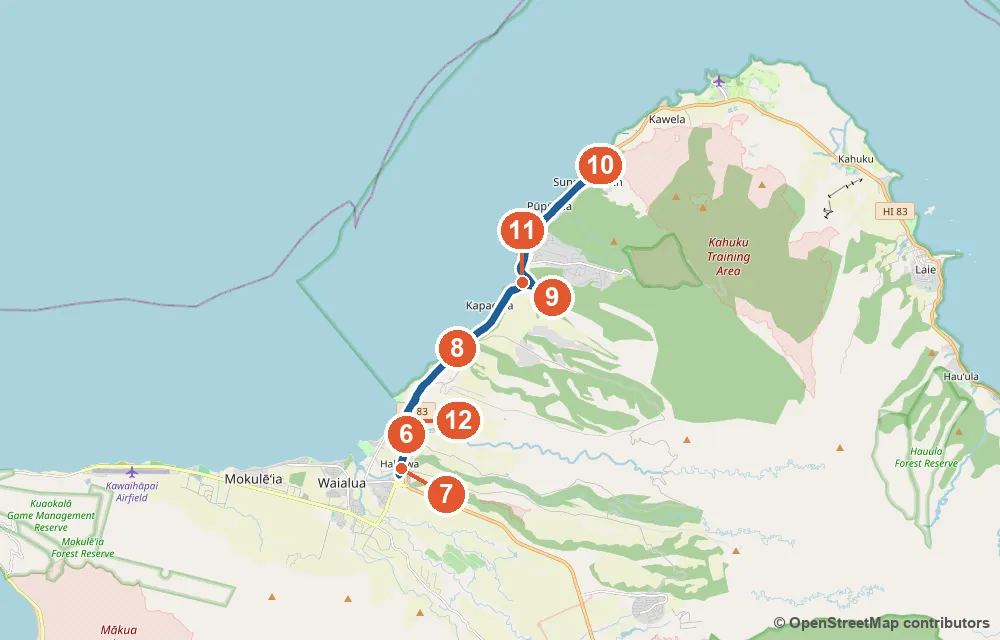
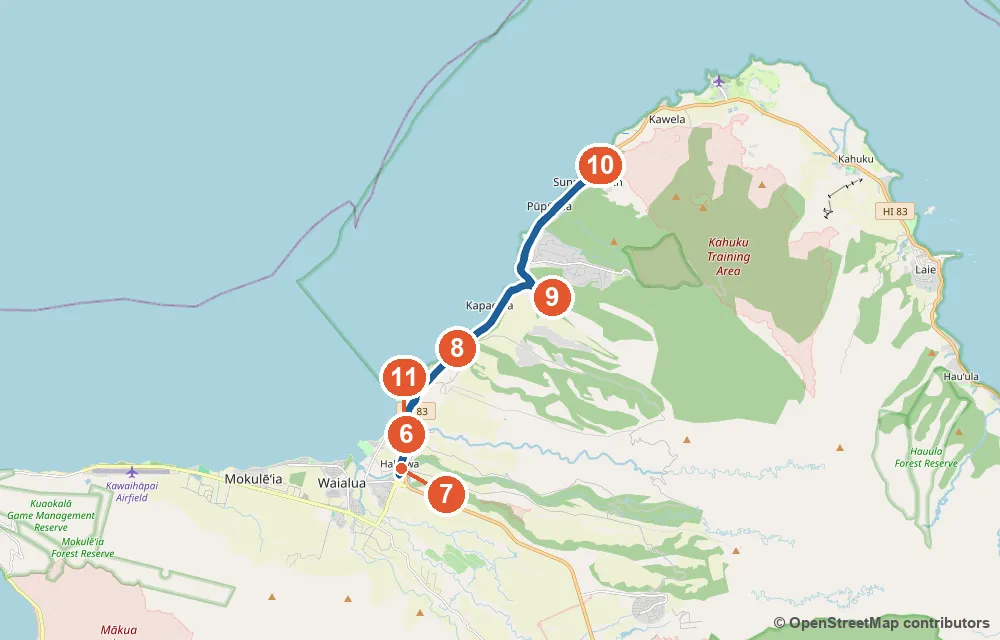
feat: 11/8 drop Waimea Bay sunset, dinner at Haleiwa Joe's from 16:30 with sunset view

Changed region(s): [[0.372, 0.5312, 0.496, 0.6875], [0.496, 0.3125, 0.558, 0.4688]]

diff --git a/index.html b/index.html
@@ -12,7 +12,7 @@
 // GitHub Pages 는 HTML 을 10분 캐시한다(헤더는 못 바꿈) → 열 때마다 version.json 을 캐시 없이 확인해
 // 새 버전이면 주소에 ?v=버전 을 붙여 한 번만 새로 불러온다 (같은 버전으로 이미 시도했으면 멈춤)
 (function () {
-  var BUILD = '8d553b98e7';
+  var BUILD = 'cc53425fba';
   try {
     fetch('version.json?t=' + Date.now(), { cache: 'no-store' })
       .then(function (r) { return r.ok ? r.json() : null; })
@@ -350,7 +350,7 @@ footer { max-width: 1100px; margin: 0 auto; padding: 0 16px 48px; color: var(--m
 </section><section class="sec hotel"><div class="sec-head"><span class="sec-ic">🏨</span><h2 id="숙소-메리어트-3박-비치타워-콘도-4박-걸어서-3분">숙소</h2><small>메리어트 3박 · 비치타워 콘도 4박 (걸어서 3분)</small></div>
 <div class="tickets"><div class="hotel"><div class="tk-top"><span>11/4 (수) – 11/7 (토) · 3박 · 아고다</span></div><div class="ht-name">와이키키 비치 메리어트 리조트 &amp; 스파</div><div class="ht-times"><div><span>체크인</span><b>15:00</b><small>11/4 (수)</small></div><div><span>체크아웃</span><b>11:00</b><small>11/7 (토)</small></div></div><dl class="ht-facts"><dt>☎ 전화</dt><dd><ul class="ht-fac"><li>한국에서 <strong>001-1-808-922-6611</strong> (KT 001 · LG U+ 002 · SK 00700)</li><li>휴대폰은 <strong><a href="tel:+18089226611">+1 808 922 6611</a></strong> (누르면 바로 걸려요)</li><li>프런트 24시간 · 하와이는 한국보다 19시간 늦어요</li></ul></dd><dt>🛏 방</dt><dd><strong>객실 2개 예약 확정</strong> — 방 1: 시티뷰 퀸 1 또는 더블 2 (성인 2) · 방 2: 와이키키 시티뷰 킹 1 + 소파베드, 발코니 (성인 3) — <strong>침대는 킹 1 + 소파베드뿐</strong> (추가 침대·침대 2개 방 변경 안 됨, 11/3 확인)</dd><dt>🚿 욕실</dt><dd>객실마다 1개</dd><dt>🍳 조식</dt><dd><strong>방마다 성인 2명 포함</strong> (전화 확인 11/3) — 2번 방 세 번째 사람은 <strong>추가 요금</strong> · 2층 Kuhio Beach Grill 뷔페 (05:00–11:00)</dd><dt>🅿 주차</dt><dd><strong>호텔 셀프 주차</strong> $65/일 · 발렛 $80/일 (세금 별도 · 셀프 3박 약 $204) — 근처 반얀 주차장은 24시간 $50 (공사 중 요금 · 높이 183cm 제한)이라 하루 $15 정도 차이 · ⚠ 후기: 셀프 주차장이 좁고 자주 꽉 차서 발렛으로 돌린 일, SUV가 높아 못 들어가 발렛 쓴 일 있음 (2024~2026) · <strong>미리 예약 필요 없음</strong> (11/3 호텔 확인)</dd><dt>🏝 시설</dt><dd><ul class="ht-fac"><li>🏊 <strong>수영장 2개</strong> — 옥상 Queensbreak에 가족 풀 + 21세 이상 성인 풀, 온수 욕조 (07:00–22:00)</li><li>🍽 <strong>식당·바·카페 7곳</strong> — Kuhio Beach Grill (조식 뷔페 05–11, 2층) · Arancino di Mare (이탈리안 저녁 17–21) · Queensbreak 레스토랑·풀사이드 바 (옥상 11–23) · 스타벅스 2곳 · Island Vintage 셰이브아이스 — Sansei·DK Steakhouse는 2025.9 폐업</li><li>🛒 <strong>ABC 스토어</strong> (로비층 편의점)</li><li>🧺 <strong>셀프 세탁실</strong> (Paoakalani 타워 2층) — 세탁·건조 각 $6.50 (2026.5 투숙 후기), 카드 결제 · 드라이클리닝 서비스 별도</li><li>💆 Royal Kaila 스파 (09–18) · 피트니스 24시간</li><li>🌺 우쿨렐레·훌라·레이 만들기 수업 (리조트피 포함)</li><li>🎭 Paina Waikiki 루아우 디너쇼 (월·수·금·토·일, 별도 예약)</li><li>🗣 일본어 직원 있음 · 한국어 직원 없음 (11/3 전화 확인)</li></ul></dd></dl><ul class="ht-notes"><li>11/4 체크인 전·11/7 체크아웃 뒤 <strong>벨데스크 짐 보관</strong></li><li>리조트피 객실당 1박 $59 + 세금 (약 $70, 현장 결제 — Wi-Fi·비치체어 또는 부기보드·문화 수업 포함)</li><li>체크인은 예약자 본인 여권 + 실물 카드</li></ul></div><div class="hotel"><div class="tk-top"><span>11/7 (토) – 11/11 (수) · 4박</span></div><div class="ht-name">와이키키 비치 타워 콘도 (에어비앤비)</div><div class="ht-times"><div><span>체크인</span><b>15:00</b><small>11/7 (토)</small></div><div><span>체크아웃</span><b>11:00</b><small>11/11 (수)</small></div></div><dl class="ht-facts"><dt>☎ 전화</dt><dd><ul class="ht-fac"><li>관리 회사(캡틴 쿡 리조트)는 <strong>에어비앤비 앱 메시지</strong></li><li>관리자 전화번호는 11/5 15:00(하와이)부터 앱의 입실 안내에 나와요</li></ul></dd><dt>🛏 방</dt><dd><strong>침실 2개</strong> — 안방 킹 1 · 게스트룸 트윈 2 (요청 시 킹 1) · 거실 퀸 소파베드 · 최대 6명 · 실내 약 107㎡ + 오션뷰 발코니</dd><dt>🚿 욕실</dt><dd><strong>2개</strong> (안방 전용 1 + 공용 1)</dd><dt>🍳 조식</dt><dd>없음 — 주방 완비, 아침은 장봐서</dd><dt>🅿 주차</dt><dd><strong>발렛 1대 무료</strong> (차 높이 188cm까지, 셔틀 크기 밴 불가) · 차량 사전 등록 필요 없음 · 머무는 동안만 · 리조트피 없음</dd><dt>🏝 시설</dt><dd><ul class="ht-fac"><li>🧺 집 안 <strong>세탁기·건조기</strong> (무료)</li><li>🏊 건물 수영장·스파·피트니스</li><li>🍳 주방 완비</li></ul></dd></dl><ul class="ht-notes"><li>체크인·체크아웃 시각은 <strong>에어비앤비 예약·호스트 안내 기준</strong></li><li>도착 후 <strong>관리자에게 전화</strong>해서 체크인</li><li>매일 청소·수건 보충 없음</li><li>커피·조미료·식용유·지퍼백 없음</li></ul></div></div>
 </section><section class="sec overview"><div class="sec-head"><span class="sec-ic">🗓</span><h2 id="1-한눈에-보기">한눈에 보기</h2></div>
-<div class="ov-grid"><a class="ov c0" href="#114-수-도착-짐부터-호텔에-가볍게"><div class="ov-head"><b>11/4</b><em>수</em><span>도착</span></div><ul><li><i>🛍</i>월마트 / 돈키호테 (장보기)</li><li><i>🍳</i>기내</li><li><i>🍱</i>Highway Inn 카카아코</li><li><i>🍽</i>🌅 DECK. 일몰 (17:30)</li></ul></a><a class="ov c1" href="#115-목-진주만-와이켈레-아울렛"><div class="ov-head"><b>11/5</b><em>목</em><span>진주만</span></div><ul><li><i>🛍</i><strong>와이켈레 아울렛</strong></li><li><i>🍳</i>메리어트 조식</li><li><i>🍱</i>Restaurant 604</li><li><i>🍽</i>🍺 Yard House</li></ul></a><a class="ov c2" href="#116-금-동부-해안-카일루아-해안-먼저-저녁은-카일루아"><div class="ov-head"><b>11/6</b><em>금</em><span>동부 해안</span></div><ul><li><i>🥾</i><strong>마카푸우 등대</strong> · (선택, 아들) 라니카이 필박스</li><li><i>🛍</i><strong>카일루아</strong> 마노아 초콜릿·Whole Foods·타운</li><li><i>🍳</i>메리어트 조식</li><li><i>🍱</i>Kalapawai Café</li><li><i>🍽</i><strong>Buzz's</strong> (예약)</li></ul></a><a class="ov c3" href="#117-토-kcc-파머스마켓-다이아몬드헤드-알라모아나-숙소-이동"><div class="ov-head"><b>11/7</b><em>토</em><span>이동일</span></div><ul><li><i>🥾</i><strong>다이아몬드헤드</strong> (예약)</li><li><i>🛍</i><strong>KCC 파머스마켓 · 알라모아나</strong> · 저녁 전 IMP·로열 하와이안 (걸어서)</li><li><i>🍳</i>메리어트 조식</li><li><i>🍱</i>릴리하 베이커리 (알라모아나)</li><li><i>🍽</i>🌺 훌라 쇼 → 🍺 <strong>Maui Brewing</strong></li></ul></a><a class="ov c4" href="#118-일-노스쇼어-종일"><div class="ov-head"><b>11/8</b><em>일</em><span>노스쇼어</span></div><ul><li><i>🥾</i><strong>와이메아 밸리 폭포</strong></li><li><i>🛍</i><strong>할레이바 타운</strong> · 돌 플랜테이션</li><li><i>🍳</i>Duke's 조식 뷔페</li><li><i>🍱</i>Giovanni's</li><li><i>🍽</i>Haleiwa Beach House</li></ul></a><a class="ov c5" href="#119-월-서쪽-해안-93번-드라이브-쇼핑-와이키키-마지막-여유일"><div class="ov-head"><b>11/9</b><em>월</em><span>서쪽 해안·쇼핑</span></div><ul><li><i>🥾</i><strong>93번 서쪽 해안 드라이브</strong> (코올리나 라군·마카하·요코하마 베이)</li><li><i>🛍</i><strong>워드 빌리지 · 돈키호테·월마트</strong></li><li><i>🍳</i>Café Kaila / Hau Tree</li><li><i>🍱</i>Monkeypod Kitchen (코올리나)</li><li><i>🍽</i>🍺 <strong>Waikiki Brewing</strong></li></ul></a><a class="ov c6" href="#1110-화-뵤도인-폴리네시안-문화센터-pcc"><div class="ov-head"><b>11/10</b><em>화</em><span>PCC</span></div><ul><li><i>🥾</i><strong>팔리 전망대 · 뵤도인 사원</strong> (또는 호오말루히아)</li><li><i>🛍</i>후킬라우 마켓플레이스</li><li><i>🍳</i>Heavenly (07:00~)</li><li><i>🍱</i>Seven Brothers / Giovanni's 카후쿠</li><li><i>🍽</i>PCC 루아우</li></ul></a><a class="ov c7" href="#1111-수-출발-veterans-day-공휴일"><div class="ov-head"><b>11/11</b><em>수</em><span>출발</span></div><ul><li><i>🍳</i>Eggs 'n Things 포장 (06:00)</li><li><i>🍱</i>기내</li></ul></a></div>
+<div class="ov-grid"><a class="ov c0" href="#114-수-도착-짐부터-호텔에-가볍게"><div class="ov-head"><b>11/4</b><em>수</em><span>도착</span></div><ul><li><i>🛍</i>월마트 / 돈키호테 (장보기)</li><li><i>🍳</i>기내</li><li><i>🍱</i>Highway Inn 카카아코</li><li><i>🍽</i>🌅 DECK. 일몰 (17:30)</li></ul></a><a class="ov c1" href="#115-목-진주만-와이켈레-아울렛"><div class="ov-head"><b>11/5</b><em>목</em><span>진주만</span></div><ul><li><i>🛍</i><strong>와이켈레 아울렛</strong></li><li><i>🍳</i>메리어트 조식</li><li><i>🍱</i>Restaurant 604</li><li><i>🍽</i>🍺 Yard House</li></ul></a><a class="ov c2" href="#116-금-동부-해안-카일루아-해안-먼저-저녁은-카일루아"><div class="ov-head"><b>11/6</b><em>금</em><span>동부 해안</span></div><ul><li><i>🥾</i><strong>마카푸우 등대</strong> · (선택, 아들) 라니카이 필박스</li><li><i>🛍</i><strong>카일루아</strong> 마노아 초콜릿·Whole Foods·타운</li><li><i>🍳</i>메리어트 조식</li><li><i>🍱</i>Kalapawai Café</li><li><i>🍽</i><strong>Buzz's</strong> (예약)</li></ul></a><a class="ov c3" href="#117-토-kcc-파머스마켓-다이아몬드헤드-알라모아나-숙소-이동"><div class="ov-head"><b>11/7</b><em>토</em><span>이동일</span></div><ul><li><i>🥾</i><strong>다이아몬드헤드</strong> (예약)</li><li><i>🛍</i><strong>KCC 파머스마켓 · 알라모아나</strong> · 저녁 전 IMP·로열 하와이안 (걸어서)</li><li><i>🍳</i>메리어트 조식</li><li><i>🍱</i>릴리하 베이커리 (알라모아나)</li><li><i>🍽</i>🌺 훌라 쇼 → 🍺 <strong>Maui Brewing</strong></li></ul></a><a class="ov c4" href="#118-일-노스쇼어-종일"><div class="ov-head"><b>11/8</b><em>일</em><span>노스쇼어</span></div><ul><li><i>🥾</i><strong>와이메아 밸리 폭포</strong></li><li><i>🛍</i><strong>할레이바 타운</strong> · 돌 플랜테이션</li><li><i>🍳</i>Duke's 조식 뷔페</li><li><i>🍱</i>Giovanni's</li><li><i>🍽</i>Haleiwa Joe's (노을)</li></ul></a><a class="ov c5" href="#119-월-서쪽-해안-93번-드라이브-쇼핑-와이키키-마지막-여유일"><div class="ov-head"><b>11/9</b><em>월</em><span>서쪽 해안·쇼핑</span></div><ul><li><i>🥾</i><strong>93번 서쪽 해안 드라이브</strong> (코올리나 라군·마카하·요코하마 베이)</li><li><i>🛍</i><strong>워드 빌리지 · 돈키호테·월마트</strong></li><li><i>🍳</i>Café Kaila / Hau Tree</li><li><i>🍱</i>Monkeypod Kitchen (코올리나)</li><li><i>🍽</i>🍺 <strong>Waikiki Brewing</strong></li></ul></a><a class="ov c6" href="#1110-화-뵤도인-폴리네시안-문화센터-pcc"><div class="ov-head"><b>11/10</b><em>화</em><span>PCC</span></div><ul><li><i>🥾</i><strong>팔리 전망대 · 뵤도인 사원</strong> (또는 호오말루히아)</li><li><i>🛍</i>후킬라우 마켓플레이스</li><li><i>🍳</i>Heavenly (07:00~)</li><li><i>🍱</i>Seven Brothers / Giovanni's 카후쿠</li><li><i>🍽</i>PCC 루아우</li></ul></a><a class="ov c7" href="#1111-수-출발-veterans-day-공휴일"><div class="ov-head"><b>11/11</b><em>수</em><span>출발</span></div><ul><li><i>🍳</i>Eggs 'n Things 포장 (06:00)</li><li><i>🍱</i>기내</li></ul></a></div>
 
 </section><section class="sec days"><div class="sec-head"><span class="sec-ic">📍</span><h2 id="2-날짜별-상세-시간-장소-주차">날짜별 상세</h2><small>시간 · 장소 · 주차</small></div>
 <blockquote>
@@ -409,16 +409,17 @@ footer { max-width: 1100px; margin: 0 auto; padding: 0 16px 48px; color: var(--m
 </ul>
 </div></article><article class="day c4" data-date="11/8"><div class="day-head"><div class="date-badge"><b>11/8</b><span>일요일</span></div><div class="day-title"><h3 id="118-일-노스쇼어-종일">노스쇼어 종일</h3></div></div><div class="day-body">
 <p class="wx">🌤 할레이바·노스쇼어 ☔ 16% · 🌡 21~28°C · 💨 평균 초속 6m · 돌풍 15m (동북동) — 오전 한때 소나기 뒤 대체로 맑음 · 주말 중대형 파도 → 큰 파도는 마른 모래까지 덮칠 수 있음</p>
-<figure class="routemap"><img src="maps/1108.webp?v=c63b88dec0" loading="lazy" width="1000" height="640" alt="11/8 지도"><figcaption><div class="rm-stops"><b>①</b> 비치타워 콘도 → <b>②</b> Duke's 조식 → <b>③</b> 비치타워 콘도 → <b>④</b> Green World 커피 → <b>⑤</b> 돌 플랜테이션 → <b>⑥</b> 할레이바 타운 → <b>⑦</b> Giovanni's → <b>⑧</b> 라니아케아 → <b>⑨</b> 와이메아 밸리 → <b>⑩</b> Ted's Bakery → <b>⑪</b> 와이메아 베이 → <b>⑫</b> Haleiwa Beach House → <b>⑬</b> 비치타워 콘도</div><div class="rm-meta">🚗 하루 운전 약 142km · 막히지 않으면 약 2시간 57분 · 파란 선 = 차 · 초록 선 = 걷기</div><div class="rm-links">🧭 구글 지도 길찾기 <a href="https://www.google.com/maps/dir/?api=1&amp;origin=Waikiki+Beach+Tower+2470+Kalakaua+Ave+Honolulu&amp;destination=Waikiki+Beach+Tower+2470+Kalakaua+Ave+Honolulu&amp;travelmode=walking&amp;waypoints=Duke%27s+Waikiki+2335+Kalakaua+Ave+Honolulu" target="_blank" rel="noopener">🚶 ①→③</a><a href="https://www.google.com/maps/dir/?api=1&amp;origin=Waikiki+Beach+Tower+2470+Kalakaua+Ave+Honolulu&amp;destination=Giovanni%27s+Shrimp+Truck+66-472+Kamehameha+Hwy+Haleiwa&amp;travelmode=driving&amp;waypoints=Green+World+Coffee+Farm+Wahiawa%7CDole+Plantation%7CHaleiwa+Store+Lots" target="_blank" rel="noopener">③→⑦</a><a href="https://www.google.com/maps/dir/?api=1&amp;origin=Giovanni%27s+Shrimp+Truck+66-472+Kamehameha+Hwy+Haleiwa&amp;destination=Waimea+Bay+Beach+Park&amp;travelmode=driving&amp;waypoints=Laniakea+Beach%7CWaimea+Valley%7CTed%27s+Bakery+Sunset+Beach" target="_blank" rel="noopener">⑦→⑪</a><a href="https://www.google.com/maps/dir/?api=1&amp;origin=Waimea+Bay+Beach+Park&amp;destination=Waikiki+Beach+Tower+2470+Kalakaua+Ave+Honolulu&amp;travelmode=driving&amp;waypoints=Haleiwa+Beach+House+62-540+Kamehameha+Hwy" target="_blank" rel="noopener">⑪→⑬</a></div></figcaption><details class="rm-zoom"><summary>🔍 확대 지도 — 할레이바·노스쇼어 (⑥~⑫)</summary><img src="maps/1108-zoom.webp?v=c63b88dec0" loading="lazy" width="1000" height="640" alt="11/8 할레이바·노스쇼어 확대 지도"></details></figure><div class="gallery"><figure><a href="https://commons.wikimedia.org/wiki/File:Dolejf2103.JPG" target="_blank" rel="noopener"><img src="https://thumb.wikimedia.org/wikipedia/commons/thumb/4/43/Dolejf2103.JPG/960px-Dolejf2103.JPG?utm_source=commons.wikimedia.org&utm_campaign=imageinfo&utm_content=thumbnail" alt="돌 플랜테이션" loading="lazy" decoding="async"></a><figcaption><b>돌 플랜테이션</b><small>© Ramon FVelasquez · CC BY-SA 3.0</small></figcaption></figure><figure><a href="https://commons.wikimedia.org/wiki/File:Haleiwa_bridge.jpg" target="_blank" rel="noopener"><img src="https://thumb.wikimedia.org/wikipedia/commons/thumb/9/92/Haleiwa_bridge.jpg/960px-Haleiwa_bridge.jpg?utm_source=commons.wikimedia.org&utm_campaign=imageinfo&utm_content=thumbnail" alt="할레이바 타운" loading="lazy" decoding="async"></a><figcaption><b>할레이바 타운</b><small>© Eric Guinther · CC BY-SA 3.0</small></figcaption></figure><figure><a href="https://commons.wikimedia.org/wiki/File:Ore_Haleiwa_Hawaii_Oahu_Matsumoto_Shave_Ice_(33673670325).jpg" target="_blank" rel="noopener"><img src="https://thumb.wikimedia.org/wikipedia/commons/thumb/1/16/Ore_Haleiwa_Hawaii_Oahu_Matsumoto_Shave_Ice_%2833673670325%29.jpg/960px-Ore_Haleiwa_Hawaii_Oahu_Matsumoto_Shave_Ice_%2833673670325%29.jpg?utm_source=commons.wikimedia.org&utm_campaign=imageinfo&utm_content=thumbnail" alt="마츠모토 셰이브아이스" loading="lazy" decoding="async"></a><figcaption><b>마츠모토 셰이브아이스</b><small>© Anthony Quintano from Honolulu, HI, Unit · CC BY 2.0</small></figcaption></figure><figure><a href="https://commons.wikimedia.org/wiki/File:Green_sea_turtle_(Chelonia_mydas)_Moorea.jpg" target="_blank" rel="noopener"><img src="https://thumb.wikimedia.org/wikipedia/commons/thumb/a/a3/Green_sea_turtle_%28Chelonia_mydas%29_Moorea.jpg/960px-Green_sea_turtle_%28Chelonia_mydas%29_Moorea.jpg?utm_source=commons.wikimedia.org&utm_campaign=imageinfo&utm_content=thumbnail" alt="바다거북 (호누)" loading="lazy" decoding="async"></a><figcaption><b>바다거북 (호누)</b><small>© Charles J. Sharp · CC BY-SA 4.0</small></figcaption></figure><figure><a href="https://commons.wikimedia.org/wiki/File:WaimeaValleyEntrance.jpg" target="_blank" rel="noopener"><img src="https://upload.wikimedia.org/wikipedia/commons/7/7d/WaimeaValleyEntrance.jpg?utm_source=commons.wikimedia.org&utm_campaign=imageinfo&utm_content=thumbnail_unscaled" alt="와이메아 밸리" loading="lazy" decoding="async"></a><figcaption><b>와이메아 밸리</b><small>© Travis.Thurston · CC BY-SA 3.0</small></figcaption></figure><figure><a href="https://commons.wikimedia.org/wiki/File:Empty_wave_at_Banzai_Pipeline.jpeg" target="_blank" rel="noopener"><img src="https://upload.wikimedia.org/wikipedia/commons/0/03/Empty_wave_at_Banzai_Pipeline.jpeg?utm_source=commons.wikimedia.org&utm_campaign=imageinfo&utm_content=thumbnail_unscaled" alt="선셋비치·파이프라인" loading="lazy" decoding="async"></a><figcaption><b>선셋비치·파이프라인</b><small>© Mat-fa · CC BY-SA 3.0</small></figcaption></figure></div><ol class="tl"><li><div class="t">07:50–08:40</div><div class="c"><div class="place"><strong>Duke's 조식 뷔페</strong> (Outrigger Waikiki 2335 Kalakaua, 07:00–11:00, 성인 $29)</div><div class="what">아침 — 해변 앞 뷔페 · 🍴 달걀·과일·현지 음식 위주 (팬케이크는 다음 날 Café Kaila에서) · <strong>OpenTable 예약</strong>으로 대기 없이 · 12/18까지 선데크 공사</div><div class="park">🅿 <strong>걸어서 8분</strong> (차는 콘도)</div></div></li><li><div class="t">09:00</div><div class="c"><div class="place">출발 (H-1→H-2→99번, 약 45분)</div><div class="what">발렛 출차 미리 요청</div></div></li><li><div class="t">09:45–10:05</div><div class="c"><div class="place">☕ <strong>Green World Coffee Farm</strong> (와히아와 99번 길가, 07:00~)</div><div class="what">커피 농장 카페 — 구글 리뷰 4,971 · 돌 플랜테이션 5분 전</div><div class="park">🅿 무료</div></div></li><li><div class="t">10:10–10:50</div><div class="c"><div class="place"><strong>돌 플랜테이션</strong> (09:30–17:30)</div><div class="what"><strong>짧게</strong> — 현지인은 "지나가며 잠깐 들르는 곳" 평 · Dole Whip · 정원 무료 (기차 $15 · 미로 $10은 선택)</div><div class="park">🅿 무료 (미확인)</div></div></li><li><div class="t">11:05–12:15</div><div class="c"><div class="place">🛍 <strong>할레이바 타운</strong></div><div class="what">Haleiwa Store Lots · North Shore Marketplace (서핑 브랜드, Clark Little 갤러리) · <strong>마츠모토 셰이브아이스</strong> (10–18, 줄이 길면 옆집 <strong>Aoki's</strong> — 현지인 선호) · Island Vintage Coffee 할레이바 (07–17, 아사이볼)</div><div class="park">🅿 고객용 무료</div></div></li><li><div class="t">12:15–13:00</div><div class="c"><div class="place"><strong>Giovanni's 할레이바</strong> (10:30–17:00)</div><div class="what">점심 — 갈릭 쉬림프 스캠피 (🍴 이번 여행 새우는 여기서) · 줄이 길면 <strong>Big Wave Shrimp</strong> (갈릭 쉬림프 독자 투표 1위) 또는 근처 한식 트럭 <strong>Young's Lunch Wagon</strong> (66-521 · 가이드북 '로라 이모네'로 추정)</div><div class="park">🅿 푸드트럭 주차장 <strong>$2–3 현금</strong></div></div></li><li><div class="t">13:15–13:35</div><div class="c"><div class="place">라니아케아</div><div class="what">바다거북 (3m 이상 거리) · <strong>안전하게 건너고 볼 자리 없으면 통과</strong></div><div class="park">🅿 길 건너 비포장 · 도로 이설 공사 중단 상태</div></div></li><li><div class="t">13:45–15:30</div><div class="c"><div class="place">🥾 <strong>와이메아 밸리</strong> (화–일 09–16)</div><div class="what">폭포까지 포장 산책 · 성인 $26 · 62세 이상 $20 · 셔틀 편도 $10</div><div class="park">🅿 <strong>1시간 $2 · 최대 4시간 $5</strong> (입장객 전용, 해변용 주차 시 견인)</div></div></li><li><div class="t">15:45–16:30</div><div class="c"><div class="place"><strong>Ted's Bakery</strong> (초코 하우피아 파이) 또는 푸우 오 마후카 헤이아우 (무료 전망) — <strong>둘 중 하나</strong></div><div class="park">🅿 무료</div></div></li><li><div class="t">16:45–17:55</div><div class="c"><div class="place">🌅 <strong>와이메아 베이</strong> (구글 리뷰 6,704 ★4.8 · 현지 추천) — 주차가 안 되면 <strong>선셋비치</strong></div><div class="what">파도·일몰 — <strong>물가·암반에서 떨어진 높은 곳, 구조요원 지시 우선</strong> · Ted's에서 할레이바 저녁 가는 길 (10분)</div><div class="park">🅿 와이메아 베이 공원 무료 주차장 (작아서 일찍 참) · 선셋비치는 길가 합법 주차 공간만 · <strong>두 곳 모두 꽉 차면 일몰은 건너뛰고 할레이바로</strong> · 당일 공원·주차장 통제 확인</div></div></li><li><div class="t">18:15–19:30</div><div class="c"><div class="place"><strong>Haleiwa Beach House</strong> (62-540 Kamehameha Hwy · 저녁 17:00–20:00, 화 휴무 · ☎ 808-637-3435)</div><div class="what">저녁 — <strong>예약 안 받음, 워크인</strong> · 바다 전망 반야외 · 20:00에 닫으니 늦지 않게 · 🍴 <strong>주문: 타이 프라이드 치킨·생선 요리</strong> (쉬림프 스캠피는 점심 Giovanni's와, 갈비찜은 11/4 DECK.와 겹침)</div><div class="park">🅿 무료 주차장 + 길가 무료 주차</div></div></li><li><div class="t">19:30–20:30</div><div class="c"><div class="place">귀가 (약 60분)</div></div></li></ol>
+<figure class="routemap"><img src="maps/1108.webp?v=20eaca5d1d" loading="lazy" width="1000" height="640" alt="11/8 지도"><figcaption><div class="rm-stops"><b>①</b> 비치타워 콘도 → <b>②</b> Duke's 조식 → <b>③</b> 비치타워 콘도 → <b>④</b> Green World 커피 → <b>⑤</b> 돌 플랜테이션 → <b>⑥</b> 할레이바 타운 → <b>⑦</b> Giovanni's → <b>⑧</b> 라니아케아 → <b>⑨</b> 와이메아 밸리 → <b>⑩</b> Ted's Bakery → <b>⑪</b> Haleiwa Joe's → <b>⑫</b> 비치타워 콘도</div><div class="rm-meta">🚗 하루 운전 약 141km · 막히지 않으면 약 2시간 57분 · 파란 선 = 차 · 초록 선 = 걷기</div><div class="rm-links">🧭 구글 지도 길찾기 <a href="https://www.google.com/maps/dir/?api=1&amp;origin=Waikiki+Beach+Tower+2470+Kalakaua+Ave+Honolulu&amp;destination=Waikiki+Beach+Tower+2470+Kalakaua+Ave+Honolulu&amp;travelmode=walking&amp;waypoints=Duke%27s+Waikiki+2335+Kalakaua+Ave+Honolulu" target="_blank" rel="noopener">🚶 ①→③</a><a href="https://www.google.com/maps/dir/?api=1&amp;origin=Waikiki+Beach+Tower+2470+Kalakaua+Ave+Honolulu&amp;destination=Giovanni%27s+Shrimp+Truck+66-472+Kamehameha+Hwy+Haleiwa&amp;travelmode=driving&amp;waypoints=Green+World+Coffee+Farm+Wahiawa%7CDole+Plantation%7CHaleiwa+Store+Lots" target="_blank" rel="noopener">③→⑦</a><a href="https://www.google.com/maps/dir/?api=1&amp;origin=Giovanni%27s+Shrimp+Truck+66-472+Kamehameha+Hwy+Haleiwa&amp;destination=Haleiwa+Joe%27s+66-011+Kamehameha+Hwy+Haleiwa&amp;travelmode=driving&amp;waypoints=Laniakea+Beach%7CWaimea+Valley%7CTed%27s+Bakery+Sunset+Beach" target="_blank" rel="noopener">⑦→⑪</a><a href="https://www.google.com/maps/dir/?api=1&amp;origin=Haleiwa+Joe%27s+66-011+Kamehameha+Hwy+Haleiwa&amp;destination=Waikiki+Beach+Tower+2470+Kalakaua+Ave+Honolulu&amp;travelmode=driving" target="_blank" rel="noopener">⑪→⑫</a></div></figcaption><details class="rm-zoom"><summary>🔍 확대 지도 — 할레이바·노스쇼어 (⑥~⑪)</summary><img src="maps/1108-zoom.webp?v=20eaca5d1d" loading="lazy" width="1000" height="640" alt="11/8 할레이바·노스쇼어 확대 지도"></details></figure><div class="gallery"><figure><a href="https://commons.wikimedia.org/wiki/File:Dolejf2103.JPG" target="_blank" rel="noopener"><img src="https://thumb.wikimedia.org/wikipedia/commons/thumb/4/43/Dolejf2103.JPG/960px-Dolejf2103.JPG?utm_source=commons.wikimedia.org&utm_campaign=imageinfo&utm_content=thumbnail" alt="돌 플랜테이션" loading="lazy" decoding="async"></a><figcaption><b>돌 플랜테이션</b><small>© Ramon FVelasquez · CC BY-SA 3.0</small></figcaption></figure><figure><a href="https://commons.wikimedia.org/wiki/File:Haleiwa_bridge.jpg" target="_blank" rel="noopener"><img src="https://thumb.wikimedia.org/wikipedia/commons/thumb/9/92/Haleiwa_bridge.jpg/960px-Haleiwa_bridge.jpg?utm_source=commons.wikimedia.org&utm_campaign=imageinfo&utm_content=thumbnail" alt="할레이바 타운" loading="lazy" decoding="async"></a><figcaption><b>할레이바 타운</b><small>© Eric Guinther · CC BY-SA 3.0</small></figcaption></figure><figure><a href="https://commons.wikimedia.org/wiki/File:Ore_Haleiwa_Hawaii_Oahu_Matsumoto_Shave_Ice_(33673670325).jpg" target="_blank" rel="noopener"><img src="https://thumb.wikimedia.org/wikipedia/commons/thumb/1/16/Ore_Haleiwa_Hawaii_Oahu_Matsumoto_Shave_Ice_%2833673670325%29.jpg/960px-Ore_Haleiwa_Hawaii_Oahu_Matsumoto_Shave_Ice_%2833673670325%29.jpg?utm_source=commons.wikimedia.org&utm_campaign=imageinfo&utm_content=thumbnail" alt="마츠모토 셰이브아이스" loading="lazy" decoding="async"></a><figcaption><b>마츠모토 셰이브아이스</b><small>© Anthony Quintano from Honolulu, HI, Unit · CC BY 2.0</small></figcaption></figure><figure><a href="https://commons.wikimedia.org/wiki/File:Green_sea_turtle_(Chelonia_mydas)_Moorea.jpg" target="_blank" rel="noopener"><img src="https://thumb.wikimedia.org/wikipedia/commons/thumb/a/a3/Green_sea_turtle_%28Chelonia_mydas%29_Moorea.jpg/960px-Green_sea_turtle_%28Chelonia_mydas%29_Moorea.jpg?utm_source=commons.wikimedia.org&utm_campaign=imageinfo&utm_content=thumbnail" alt="바다거북 (호누)" loading="lazy" decoding="async"></a><figcaption><b>바다거북 (호누)</b><small>© Charles J. Sharp · CC BY-SA 4.0</small></figcaption></figure><figure><a href="https://commons.wikimedia.org/wiki/File:WaimeaValleyEntrance.jpg" target="_blank" rel="noopener"><img src="https://upload.wikimedia.org/wikipedia/commons/7/7d/WaimeaValleyEntrance.jpg?utm_source=commons.wikimedia.org&utm_campaign=imageinfo&utm_content=thumbnail_unscaled" alt="와이메아 밸리" loading="lazy" decoding="async"></a><figcaption><b>와이메아 밸리</b><small>© Travis.Thurston · CC BY-SA 3.0</small></figcaption></figure><figure><a href="https://commons.wikimedia.org/wiki/File:Empty_wave_at_Banzai_Pipeline.jpeg" target="_blank" rel="noopener"><img src="https://upload.wikimedia.org/wikipedia/commons/0/03/Empty_wave_at_Banzai_Pipeline.jpeg?utm_source=commons.wikimedia.org&utm_campaign=imageinfo&utm_content=thumbnail_unscaled" alt="선셋비치·파이프라인" loading="lazy" decoding="async"></a><figcaption><b>선셋비치·파이프라인</b><small>© Mat-fa · CC BY-SA 3.0</small></figcaption></figure></div><ol class="tl"><li><div class="t">07:50–08:40</div><div class="c"><div class="place"><strong>Duke's 조식 뷔페</strong> (Outrigger Waikiki 2335 Kalakaua, 07:00–11:00, 성인 $29)</div><div class="what">아침 — 해변 앞 뷔페 · 🍴 달걀·과일·현지 음식 위주 (팬케이크는 다음 날 Café Kaila에서) · <strong>OpenTable 예약</strong>으로 대기 없이 · 12/18까지 선데크 공사</div><div class="park">🅿 <strong>걸어서 8분</strong> (차는 콘도)</div></div></li><li><div class="t">09:00</div><div class="c"><div class="place">출발 (H-1→H-2→99번, 약 45분)</div><div class="what">발렛 출차 미리 요청</div></div></li><li><div class="t">09:45–10:05</div><div class="c"><div class="place">☕ <strong>Green World Coffee Farm</strong> (와히아와 99번 길가, 07:00~)</div><div class="what">커피 농장 카페 — 구글 리뷰 4,971 · 돌 플랜테이션 5분 전</div><div class="park">🅿 무료</div></div></li><li><div class="t">10:10–10:50</div><div class="c"><div class="place"><strong>돌 플랜테이션</strong> (09:30–17:30)</div><div class="what"><strong>짧게</strong> — 현지인은 "지나가며 잠깐 들르는 곳" 평 · Dole Whip · 정원 무료 (기차 $15 · 미로 $10은 선택)</div><div class="park">🅿 무료 (미확인)</div></div></li><li><div class="t">11:05–12:15</div><div class="c"><div class="place">🛍 <strong>할레이바 타운</strong></div><div class="what">Haleiwa Store Lots · North Shore Marketplace (서핑 브랜드, Clark Little 갤러리) · <strong>마츠모토 셰이브아이스</strong> (10–18, 줄이 길면 옆집 <strong>Aoki's</strong> — 현지인 선호) · Island Vintage Coffee 할레이바 (07–17, 아사이볼)</div><div class="park">🅿 고객용 무료</div></div></li><li><div class="t">12:15–13:00</div><div class="c"><div class="place"><strong>Giovanni's 할레이바</strong> (10:30–17:00)</div><div class="what">점심 — 갈릭 쉬림프 스캠피 (🍴 이번 여행 새우는 여기서) · 줄이 길면 <strong>Big Wave Shrimp</strong> (갈릭 쉬림프 독자 투표 1위) 또는 근처 한식 트럭 <strong>Young's Lunch Wagon</strong> (66-521 · 가이드북 '로라 이모네'로 추정)</div><div class="park">🅿 푸드트럭 주차장 <strong>$2–3 현금</strong></div></div></li><li><div class="t">13:15–13:35</div><div class="c"><div class="place">라니아케아</div><div class="what">바다거북 (3m 이상 거리) · <strong>안전하게 건너고 볼 자리 없으면 통과</strong></div><div class="park">🅿 길 건너 비포장 · 도로 이설 공사 중단 상태</div></div></li><li><div class="t">13:45–15:30</div><div class="c"><div class="place">🥾 <strong>와이메아 밸리</strong> (화–일 09–16)</div><div class="what">폭포까지 포장 산책 · 성인 $26 · 62세 이상 $20 · 셔틀 편도 $10</div><div class="park">🅿 <strong>1시간 $2 · 최대 4시간 $5</strong> (입장객 전용, 해변용 주차 시 견인)</div></div></li><li><div class="t">15:40–16:00</div><div class="c"><div class="place"><strong>Ted's Bakery</strong> (초코 하우피아 파이 포장) 또는 푸우 오 마후카 헤이아우 (무료 전망) — <strong>둘 중 하나 · 16:00에는 출발</strong></div><div class="park">🅿 무료</div></div></li><li><div class="t">16:00–16:25</div><div class="c"><div class="place">할레이바로 (약 20분 · 일요일 오후엔 더 걸릴 수 있음 → 늦으면 Ted's 건너뛰기)</div></div></li><li><div class="t">16:25–18:00</div><div class="c"><div class="place">🌅 <strong>Haleiwa Joe's</strong> (할레이바 항구 옆 66-011 Kamehameha Hwy · 저녁 16:30~ · ☎ 808-637-8005)</div><div class="what">저녁 — <strong>예약 안 받음, 선착순 → 16:30 저녁 시작 무렵 도착해 바로 이름 올리기</strong> (일요일은 11시부터 열려 있어요 · 저녁 손님이 몰리기 전이 가장 짧고, 평일 16:45에 마지막 자리였다는 후기도 있어 늦지 않게) · 항구·바다 전망 야외석에서 <strong>노을 17:50쯤</strong> · 🍴 <strong>주문: 생선 요리(구운·찐 생선, 통생선 튀김)·스티키 립·블랙&amp;블루 아히</strong> (코코넛 새우·필앤잇 새우는 점심 Giovanni's와 겹침) · 프라임 립($74.95)은 크게 나와서 나눠 먹기</div><div class="park">🅿 무료 주차장 + 길가 무료 주차</div></div></li><li><div class="t">18:00–19:00</div><div class="c"><div class="place">귀가 (약 60분)</div></div></li></ol>
 <figure class="routemap"><img src="maps/hike-waimea.webp?v=31b8907c65" loading="lazy" width="1000" height="640" alt="하이킹: 와이메아 밸리 지도"><figcaption><div class="rm-stops"><b>🥾 와이메아 밸리 코스</b> · <b>①</b> 입구 (방문자센터) → <b>②</b> 와이메아 폭포</div><div class="rm-meta">왕복 약 2.4km 포장 산책로 · 셔틀 편도 $10 · 초록 선 = 걷는 길 (대략)</div><div class="rm-links">🧭 구글 지도 <a href="https://www.google.com/maps/search/?api=1&amp;query=21.635275,-158.052933" target="_blank" rel="noopener">📍 입구</a></div></figcaption></figure>
 
 <ul>
 <li>🚗 <strong>주말 정체:</strong> 날씨 좋은 일요일엔 할레이바 → 와이메아 구간(라니아케아 포함)이 1시간 넘게 막힐 수 있어요 (현지 경고) → 라니아케아가 붐비면 건너뛰고 와이메아 밸리로 바로</li>
 <li>☔ 소나기 오면: 와이메아 밸리 길이 미끄러워짐 → 할레이바 쇼핑을 늘리고 밸리는 갠 뒤에</li>
-<li>부모님 피곤하면: Ted's 이후 바로 귀가 (18:00 와이키키) → 저녁은 <strong>마루가메 우동</strong> (도보 10~12분, 10:00–23:00)</li>
+<li>부모님 피곤하면: Ted's를 건너뛰고 할레이바로 바로 (Joe's 앞 항구에서 쉬기) · 저녁이 일찍 끝나 19:00쯤 와이키키 도착</li>
+<li><strong>와이메아 베이 일몰은 뺐어요 (11/3)</strong> — 노을은 Joe's 식탁에서 · 와이메아 베이는 밸리 바로 건너편이라 보고 싶으면 밸리 나와서 전망만 10분 (주차 어려우면 통과)</li>
 <li>에후카이 필박스는 삭제 — 진흙 급경사 + 일몰 직전 하산이라 뒤 일정이 연쇄 지연</li>
 <li>아침 대안: Eggs 'n Things Eggspress (콘도 옆 도보 1분 · 예약 불가, 일요일 아침 대기 20–60분)</li>
-<li>저녁 대안: <strong>Haleiwa Joe's</strong> (약 400m · 예약 안 받는 선착순 · 일 21시까지 · 생선 요리·스티키 립) — Beach House 대기가 길거나 20시 마감에 늦으면 · 점심 대안: Ted's Bakery 플레이트 런치 · Romy's (카후쿠, 영업시간 출처 상충)</li>
+<li>저녁 대안: <strong>Haleiwa Beach House</strong> (약 400m · 워크인 · 저녁 17–20시 · 화 휴무) — Joe's 대기가 길면 · 쉬림프 스캠피 말고 타이 프라이드 치킨·생선 · 점심 대안: Ted's Bakery 플레이트 런치 · Romy's (카후쿠, 영업시간 출처 상충)</li>
 <li>⚠ <strong>Coffee Gallery 폐업</strong> (2026.1.31) · Fumi's 폐업 표기 (미확인) · <strong>Seven Brothers 일요일 휴무</strong></li>
 <li>돌 플랜테이션은 할레이바 가는 길에 있어 <strong>먼저 들르는 게 동선상 맞음</strong> (가이드북 기본 코스와 같은 순서)</li>
 </ul>
@@ -486,9 +487,9 @@ footer { max-width: 1100px; margin: 0 auto; padding: 0 16px 48px; color: var(--m
 <td data-label="이렇게 주문"><span class="v">저녁 <strong>스테이크</strong></span></td>
 </tr>
 <tr>
-<td data-label="날짜"><span class="v">11/8 ⚠</span></td>
-<td data-label="겹치는 메뉴"><span class="v"><strong>새우</strong> (점심 Giovanni's · 저녁 Haleiwa Beach House 쉬림프 스캠피)</span></td>
-<td data-label="이렇게 주문"><span class="v">저녁 <strong>타이 프라이드 치킨·생선</strong></span></td>
+<td data-label="날짜"><span class="v">11/8</span></td>
+<td data-label="겹치는 메뉴"><span class="v">새우 (점심 Giovanni's · 저녁 Haleiwa Joe's 코코넛 새우)</span></td>
+<td data-label="이렇게 주문"><span class="v">저녁 <strong>생선 요리·스티키 립</strong></span></td>
 </tr>
 <tr>
 <td data-label="날짜"><span class="v">11/9</span></td>
@@ -531,7 +532,7 @@ footer { max-width: 1100px; margin: 0 auto; padding: 0 16px 48px; color: var(--m
 <td data-label="끼니"><span class="v">저녁</span></td>
 <td data-label="식당"><span class="v">🌅 <strong>DECK.</strong> ✅ 예약 17:30</span></td>
 <td data-label="대표 메뉴 · 가격"><span class="v">갈비찜 $36 · 카우아이 갈릭 새우 $34 · 스파이스 치킨 $28</span></td>
-<td data-label="분위기 · 특징"><span class="v">호텔 <strong>3층 루프톱</strong> · 다이아몬드헤드 노을 · 5명이 함께 도착해야 앉아요 · 자리 최대 90분<br>🍴 <strong>갈비찜 · 스파이스 치킨</strong><br>↔ <strong>겹침:</strong> 갈릭 새우 → 11/6 Buzz's · 11/8 점심 Giovanni's / 갈비찜 → 11/8 저녁 Haleiwa Beach House (거기선 다른 메뉴)</span></td>
+<td data-label="분위기 · 특징"><span class="v">호텔 <strong>3층 루프톱</strong> · 다이아몬드헤드 노을 · 5명이 함께 도착해야 앉아요 · 자리 최대 90분<br>🍴 <strong>갈비찜 · 스파이스 치킨</strong><br>↔ <strong>겹침:</strong> 갈릭 새우 → 11/6 Buzz's · 11/8 점심 Giovanni's / 갈비 → 11/8 저녁 Haleiwa Joe's 칼비 (거기선 생선)</span></td>
 </tr>
 </tbody>
 </table></div>
@@ -593,7 +594,7 @@ footer { max-width: 1100px; margin: 0 auto; padding: 0 16px 48px; color: var(--m
 <td data-label="끼니"><span class="v">저녁</span></td>
 <td data-label="식당"><span class="v"><strong>Buzz's Original Steak House</strong> (전화 예약)</span></td>
 <td data-label="대표 메뉴 · 가격"><span class="v">데리야키 스테이크 · 서로인 · 새우 스캠피 $28–40 <em>(추정)</em> · 메인에 샐러드나 수프 포함</span></td>
-<td data-label="분위기 · 특징"><span class="v">카일루아 비치 앞 <strong>오래된 스테이크하우스</strong> · 부모님 모시기 좋은 동네 명소 · 16:30 이후 민소매 불가<br>🍴 <strong>데리야키·서로인 스테이크 · 칼라마리 스테이크</strong><br>↔ <strong>겹침:</strong> 새우 스캠피 → 11/4 DECK. · 11/8 Giovanni's · 11/8 Haleiwa Beach House</span></td>
+<td data-label="분위기 · 특징"><span class="v">카일루아 비치 앞 <strong>오래된 스테이크하우스</strong> · 부모님 모시기 좋은 동네 명소 · 16:30 이후 민소매 불가<br>🍴 <strong>데리야키·서로인 스테이크 · 칼라마리 스테이크</strong><br>↔ <strong>겹침:</strong> 새우 스캠피 → 11/4 DECK. · 11/8 Giovanni's / 스테이크 → 11/8 Haleiwa Joe's (거기선 생선)</span></td>
 </tr>
 </tbody>
 </table></div>
@@ -649,13 +650,13 @@ footer { max-width: 1100px; margin: 0 auto; padding: 0 16px 48px; color: var(--m
 <td data-label="끼니"><span class="v">점심</span></td>
 <td data-label="식당"><span class="v"><strong>Giovanni's 할레이바</strong></span></td>
 <td data-label="대표 메뉴 · 가격"><span class="v">갈릭 쉬림프 스캠피 $18.50 (새우 12마리 + 밥 2스쿱)</span></td>
-<td data-label="분위기 · 특징"><span class="v">낙서 가득한 <strong>푸드트럭</strong> + 야외 테이블 · 손으로 까먹어요 · 현금 권장 · 핫앤스파이시는 아주 매움<br>🍴 <strong>갈릭 쉬림프 스캠피 (이번 여행 새우는 여기서)</strong><br>↔ <strong>겹침:</strong> 새우 → ⚠ 같은 날 저녁 Haleiwa Beach House (거기선 다른 메뉴) · 11/4 DECK. · 11/6 Buzz's</span></td>
+<td data-label="분위기 · 특징"><span class="v">낙서 가득한 <strong>푸드트럭</strong> + 야외 테이블 · 손으로 까먹어요 · 현금 권장 · 핫앤스파이시는 아주 매움<br>🍴 <strong>갈릭 쉬림프 스캠피 (이번 여행 새우는 여기서)</strong><br>↔ <strong>겹침:</strong> 새우 → 같은 날 저녁 Haleiwa Joe's 코코넛 새우 (거기선 생선) · 11/4 DECK. · 11/6 Buzz's</span></td>
 </tr>
 <tr>
 <td data-label="끼니"><span class="v">저녁</span></td>
-<td data-label="식당"><span class="v"><strong>Haleiwa Beach House</strong> (예약 안 받음 · 워크인)</span></td>
-<td data-label="대표 메뉴 · 가격"><span class="v">쉬림프 스캠피 $39 · 타이 프라이드 치킨 $38 · 갈비찜 $39</span></td>
-<td data-label="분위기 · 특징"><span class="v"><strong>바다 전망</strong> 비치하우스 · 노을 보이는 반야외 자리 · 생선·갈비찜·타이 치킨 칭찬이 많아요 · 저녁 17–20시 · 서비스료 3%<br>🍴 <strong>타이 프라이드 치킨 · 생선 요리</strong><br>↔ <strong>겹침:</strong> 쉬림프 스캠피 → ⚠ 같은 날 점심 Giovanni's / 갈비찜 → 11/4 DECK.</span></td>
+<td data-label="식당"><span class="v">🌅 <strong>Haleiwa Joe's</strong> (예약 안 받음 · 16:30 저녁 시작 맞춰)</span></td>
+<td data-label="대표 메뉴 · 가격"><span class="v">구운 생선(마카다미아 페스토·랍스터 크림) $36.95 · 통생선 튀김 $39.95 · 스티키 립 하프 $29.95 · 블랙&amp;블루 아히 $21.95 · 프라임 립 $74.95</span></td>
+<td data-label="분위기 · 특징"><span class="v">1998년 문 연 할레이바 <strong>항구 옆</strong> 레스토랑 · 항구·바다 전망 야외석에서 <strong>노을</strong> · 현지인은 큰 프라임 립을 칭찬하지만 <strong>대기가 길다</strong>는 평 → 16:30 무렵 도착 · 무료 주차장<br>🍴 <strong>생선 요리 · 스티키 립 · 블랙&amp;블루 아히</strong><br>↔ <strong>겹침:</strong> 코코넛 새우·필앤잇 새우 → 같은 날 점심 Giovanni's / 칼비 → 11/4 DECK. 갈비찜 / 스테이크 → 11/6 Buzz's</span></td>
 </tr>
 </tbody>
 </table></div>
@@ -764,7 +765,7 @@ footer { max-width: 1100px; margin: 0 auto; padding: 0 16px 48px; color: var(--m
 <tr>
 <td data-label="코스"><span class="v"><strong>83번 노스쇼어</strong></span></td>
 <td data-label="날짜"><span class="v">11/8 일</span></td>
-<td data-label="가는 길 (도로 번호)"><span class="v">와이키키 → H-1 서쪽 → H-2 북쪽 → <strong>99번 Kamehameha Hwy</strong> → 돌 플랜테이션 → 할레이바 → <strong>83번</strong> 해안 → 라니아케아 → 와이메아 밸리 → Ted's (선셋비치) → 와이메아 베이 일몰 → 할레이바 저녁 · 돌아올 때 같은 길</span></td>
+<td data-label="가는 길 (도로 번호)"><span class="v">와이키키 → H-1 서쪽 → H-2 북쪽 → <strong>99번 Kamehameha Hwy</strong> → 돌 플랜테이션 → 할레이바 → <strong>83번</strong> 해안 → 라니아케아 → 와이메아 밸리 → Ted's (선셋비치) → 할레이바 저녁 (Joe's에서 노을) · 돌아올 때 같은 길</span></td>
 <td data-label="볼거리"><span class="v">서핑의 성지 노스쇼어 ✅</span></td>
 </tr>
 <tr>
@@ -821,13 +822,13 @@ footer { max-width: 1100px; margin: 0 auto; padding: 0 16px 48px; color: var(--m
 <li><strong>헤븐리 아일랜드 라이프스타일 (Heavenly Island Lifestyle)</strong> · 와이키키 · 3,698 · ★4.4 — ✅ 11/10 아침 📖</li>
 <li><strong>헬레나스 하와이안 푸드 (Helena's Hawaiian Food)</strong> · 다운타운·차이나타운 · 3,683 · ★4.5 —  📖</li>
 <li><strong>오아후 멕시칸 그릴 (Oahu Mexican Grill)</strong> · 와이키키 · 3,422 · ★3.9 —  📖</li>
-<li><strong>할레이바 조스 (Haleiwa Joe's)</strong> · 노스쇼어·라이에 · 3,407 · ★4.5 — ↪ 11/8 저녁 대안</li>
+<li><strong>할레이바 조스 (Haleiwa Joe's)</strong> · 노스쇼어·라이에 · 3,407 · ★4.5 — ✅ 11/8 저녁 (16:30 저녁 시작 + 노을)</li>
 <li><strong>모쿠 키친 (Moku Kitchen)</strong> · 카카아코·워드 · 3,400 · ★4.4 —  📖</li>
 <li><strong>스윗 이즈 카페 (Sweet E's Cafe)</strong> · 다이아몬드헤드·카파훌루·카이무키 · 3,387 · ★4.7 —  📖</li>
 <li><strong>루스 크리스 (Ruth's Chris Steak House Waikiki)</strong> · 와이키키 · 3,180 · ★4.5 —  📖</li>
 <li><strong>토미 바하마 (Tommy Bahama Restaurant Waikiki)</strong> · 와이키키 · 3,090 · ★4.6 — ↪ 11/5 저녁 대안 📖</li>
 <li><strong>스카이 와이키키 (SKY Waikiki)</strong> · 와이키키 · 2,950 · ★4 —  📖</li>
-<li><strong>할레이바 비치 하우스 (Haleiwa Beach House)</strong> · 노스쇼어·라이에 · 2,919 · ★4.5 — ✅ 11/8 저녁</li>
+<li><strong>할레이바 비치 하우스 (Haleiwa Beach House)</strong> · 노스쇼어·라이에 · 2,919 · ★4.5 — ↪ 11/8 저녁 대안</li>
 <li><strong>버즈 스테이크하우스 (Buzz's Original Steak House)</strong> · 동부 해안·카일루아 · 2,831 · ★4.3 — ✅ 11/6 저녁</li>
 <li><strong>오노 시푸드 (Ono Seafood)</strong> · 다이아몬드헤드·카파훌루·카이무키 · 2,807 · ★4.6 —  📖</li>
 <li><strong>하이웨이 인 카카아코 (Highway Inn Kakaako)</strong> · 카카아코·워드 · 2,793 · ★4.5 — ✅ 11/4 점심</li>
@@ -854,7 +855,7 @@ footer { max-width: 1100px; margin: 0 auto; padding: 0 16px 48px; color: var(--m
 <li><strong>호오말루히아 식물원 (Hoomaluhia Botanical Garden)</strong> · 동부 해안·카일루아 · 7,550 · ★4.7 — ↪ 11/6·11/10 대안 📖</li>
 <li><strong>알라모아나 비치 파크 (Ala Moana Beach Park)</strong> · 알라모아나·마노아 · 7,233 · ★4.6</li>
 <li><strong>하나우마 베이 (Hanauma Bay Nature Preserve)</strong> · 동부 해안·카일루아 · 7,153 · ★4.6 —  📖</li>
-<li><strong>와이메아 베이 (Waimea Bay Beach Park)</strong> · 노스쇼어·라이에 · 6,704 · ★4.8 — ✅ 11/8 일몰 📖</li>
+<li><strong>와이메아 베이 (Waimea Bay Beach Park)</strong> · 노스쇼어·라이에 · 6,704 · ★4.8 — 11/8 선택 (밸리 건너편 · 일몰 일정은 뺌) 📖</li>
 <li><strong>진주만 항공 박물관 (Pearl Harbor Aviation Museum)</strong> · 진주만 · 6,689 · ★4.6 — ↪ 11/5 선택 대안</li>
 <li><strong>이올라니 궁전 (Iolani Palace)</strong> · 다운타운·차이나타운 · 6,097 · ★4.6 —  📖</li>
 <li><strong>시 라이프 파크 (Sea Life Park Hawaii)</strong> · 동부 해안·카일루아 · 5,732 · ★4.1 —  📖</li>
@@ -871,7 +872,7 @@ footer { max-width: 1100px; margin: 0 auto; padding: 0 16px 48px; color: var(--m
 <li><strong>라니카이 필박스 (Lanikai Pillbox Hike)</strong> · 동부 해안·카일루아 · 3,593 · ★4.8 — ✅ 11/6 선택</li>
 </ol>
 <ul>
-<li>순위 밖 일정 장소: 라나이 전망대 (Lanai Lookout) 3,581 (11/6 오전) · 선셋 비치 파크 (Sunset Beach Park) 2,465 (11/8 일몰 대안) · 마카하 비치 파크 (Makaha Beach Park) 2,282 (11/9 오전) · 라니카이 비치 (Lanikai Beach) 2,205 (11/6 오후) · 라니아케아 비치 (Laniakea Beach) 1,175 (11/8 오후) · 코올리나 라군 (Ko Olina Lagoons) 1,146 (11/9 오전) · 라이언 수목원 (Lyon Arboretum) 879 (11/9 대안) · 케아와울라 비치(요코하마 베이) (Keawaula Beach (Yokohama Bay)) 669 (11/9 오전) · 푸우 오 마후카 헤이아우 (Puu o Mahuka Heiau) 278 (11/8 선택)</li>
+<li>순위 밖 일정 장소: 라나이 전망대 (Lanai Lookout) 3,581 (11/6 오전) · 선셋 비치 파크 (Sunset Beach Park) 2,465 (11/8 Ted's 옆, 선택) · 마카하 비치 파크 (Makaha Beach Park) 2,282 (11/9 오전) · 라니카이 비치 (Lanikai Beach) 2,205 (11/6 오후) · 라니아케아 비치 (Laniakea Beach) 1,175 (11/8 오후) · 코올리나 라군 (Ko Olina Lagoons) 1,146 (11/9 오전) · 라이언 수목원 (Lyon Arboretum) 879 (11/9 대안) · 케아와울라 비치(요코하마 베이) (Keawaula Beach (Yokohama Bay)) 669 (11/9 오전) · 푸우 오 마후카 헤이아우 (Puu o Mahuka Heiau) 278 (11/8 선택)</li>
 </ul>
 <h3 id="쇼핑-상위-25">🛍 쇼핑 (상위 25)</h3>
 <ol>
@@ -916,7 +917,7 @@ footer { max-width: 1100px; margin: 0 auto; padding: 0 16px 48px; color: var(--m
 - ★4.8 이상 대안은 '리뷰 쓰면 서비스' 여부를 검증해서 의심(⚠)이면 빼요 — 옐프 평점 차이 · 개업 시기 · 현지 글<br />
 - 그 대안이 현지 평가에서 "관광객용"이거나 호불호가 갈리고, 지금 장소에 <strong>지역 수상(Hale ʻAina 등)이나 현지인 추천</strong>이 있으면 그대로 둬요.<br />
 - <strong>마지막 만찬처럼 분위기가 목적인 끼니는 예외</strong>로 해요.</p>
-<p><strong>11/3 추가 변경:</strong> 비싼 저녁 3끼를 <strong>맥주집</strong>으로 바꿨어요 — 11/5 Yard House · 11/7 Maui Brewing 와이키키 · 11/9 Waikiki Brewing (모두 숙소에서 걸어가거나 택시 5분이라 운전자도 같이 마셔요)<br />
+<p><strong>11/3 추가 변경:</strong> 비싼 저녁 3끼를 <strong>맥주집</strong>으로 바꿨어요 — 11/5 Yard House · 11/7 Maui Brewing 와이키키 · 11/9 Waikiki Brewing (모두 숙소에서 걸어가거나 택시 5분이라 운전자도 같이 마셔요) · <strong>11/8 저녁 Haleiwa Joe's</strong> (16:30 저녁 시작 + 노을, 와이메아 베이 일몰 대신)<br />
 <strong>결과:</strong> 식사 <strong>4끼를 바꿨어요</strong> — 11/4 저녁 DECK. · 11/5 저녁 Tommy Bahama · 11/8 아침 Duke's 조식 뷔페 · 11/10 아침 Heavenly. 기준에 걸린 나머지 3끼(11/4 점심 · 11/7 점심 · 11/9 아침)는 비교해 보고 그대로 뒀어요. 커피 4곳은 앞서 바꿨고, 트로피컬 팜스는 선택 정차로 더했어요.<br />
 숫자는 11/3에 <strong>구글 지도 API로 직접 받은 값</strong>이에요(리뷰 수 · ★평점). "리뷰 수 1위"는 사람이 가장 많이 갔다는 뜻이고 맛 순위는 아니에요.</p>
 </blockquote>
@@ -1024,7 +1025,7 @@ footer { max-width: 1100px; margin: 0 auto; padding: 0 16px 48px; color: var(--m
 <td data-label="날짜 · 끼니"><span class="v">11/8 저녁</span></td>
 <td data-label="지금 장소 (리뷰 · ★ · 현지)"><span class="v">Haleiwa Beach House (2,919 · 4.5 · 👍)</span></td>
 <td data-label="같은 동선 대안"><span class="v">Haleiwa Joe's (3,407 · 4.5 · 🤔 "대기 길고 메뉴 편차")</span></td>
-<td data-label="판단"><span class="v"><strong>유지</strong> (11/3 Joe's로 바꿨다가 되돌림 — 새우는 주문으로 피하기)</span></td>
+<td data-label="판단"><span class="v"><strong>변경 → Haleiwa Joe's</strong> (11/3 결정) — 16:30 저녁 시작에 맞춰 가서 식탁에서 노을, 와이메아 베이 일몰은 뺌 · 점심 새우와도 덜 겹침</span></td>
 </tr>
 <tr>
 <td data-label="날짜 · 끼니"><span class="v">11/9 아침</span></td>
@@ -1245,17 +1246,17 @@ footer { max-width: 1100px; margin: 0 auto; padding: 0 16px 48px; color: var(--m
 </tr>
 <tr>
 <td data-label="날짜 · 끼니"><span class="v">11/8 저녁</span></td>
-<td data-label="식당"><span class="v">Haleiwa Beach House</span></td>
-<td data-label="대표 메뉴 · 가격"><span class="v">쉬림프 스캠피 $39 · 타이 프라이드 치킨 $38 · 갈비찜 $39 (점심 갈릭 쉬림프 $27)</span></td>
-<td data-label="1인 예상"><span class="v">저녁 $45–65</span></td>
-<td data-label="비고"><span class="v">2025.6 메뉴판 · 서비스료 3% · 저녁 17–20시 · 화 휴무 · 예약 불가</span></td>
-</tr>
-<tr>
-<td data-label="날짜 · 끼니"><span class="v">11/8 대안</span></td>
 <td data-label="식당"><span class="v">Haleiwa Joe's</span></td>
 <td data-label="대표 메뉴 · 가격"><span class="v">구운·찐 생선 각 $36.95 · 통생선 튀김 $39.95 · 코코넛 새우 $33.95 · 스티키 립 하프 $29.95 · 칼비 $29.95 · 프라임 립 $74.95 · 블랙&amp;블루 아히 $21.95</span></td>
 <td data-label="1인 예상"><span class="v">$40–60</span></td>
 <td data-label="비고"><span class="v">2025.6 공식 저녁 메뉴판 · 일 11:00–21:00 (저녁 16:30~) · 예약 불가, 선착순</span></td>
+</tr>
+<tr>
+<td data-label="날짜 · 끼니"><span class="v">11/8 대안</span></td>
+<td data-label="식당"><span class="v">Haleiwa Beach House</span></td>
+<td data-label="대표 메뉴 · 가격"><span class="v">쉬림프 스캠피 $39 · 타이 프라이드 치킨 $38 · 갈비찜 $39 (점심 갈릭 쉬림프 $27)</span></td>
+<td data-label="1인 예상"><span class="v">저녁 $45–65</span></td>
+<td data-label="비고"><span class="v">2025.6 메뉴판 · 서비스료 3% · 저녁 17–20시 · 화 휴무 · 예약 불가</span></td>
 </tr>
 <tr>
 <td data-label="날짜 · 끼니"><span class="v">11/8 대안</span></td>
@@ -1545,14 +1546,14 @@ footer { max-width: 1100px; margin: 0 auto; padding: 0 16px 48px; color: var(--m
 <li><a href="https://www.google.com/maps/search/?api=1&amp;query=Waimea+Valley" target="_blank" rel="noopener">와이메아 밸리</a></li>
 <li><a href="https://www.google.com/maps/search/?api=1&amp;query=Ted%27s+Bakery+Sunset+Beach" target="_blank" rel="noopener">Ted's Bakery — 파이</a></li>
 <li><a href="https://www.google.com/maps/search/?api=1&amp;query=Puu+o+Mahuka+Heiau+State+Historic+Site" target="_blank" rel="noopener">푸우 오 마후카 헤이아우 — Ted's 대신 선택</a></li>
-<li><a href="https://www.google.com/maps/search/?api=1&amp;query=Waimea+Bay+Beach+Park" target="_blank" rel="noopener">와이메아 베이 — 일몰 (1순위)</a></li>
-<li><a href="https://www.google.com/maps/search/?api=1&amp;query=Haleiwa+Beach+House" target="_blank" rel="noopener">Haleiwa Beach House — 저녁 (워크인, 17–20시)</a></li>
-<li><a href="https://www.google.com/maps/search/?api=1&amp;query=Haleiwa+Joe%27s+66-011+Kamehameha+Hwy+Haleiwa" target="_blank" rel="noopener">Haleiwa Joe's — 저녁 대안 (400m, 선착순)</a></li>
+<li><a href="https://www.google.com/maps/search/?api=1&amp;query=Waimea+Bay+Beach+Park" target="_blank" rel="noopener">와이메아 베이 — 선택 (밸리 건너편 · 일몰 일정은 뺌)</a></li>
+<li><a href="https://www.google.com/maps/search/?api=1&amp;query=Haleiwa+Joe%27s+66-011+Kamehameha+Hwy+Haleiwa" target="_blank" rel="noopener">Haleiwa Joe's — 저녁 (16:30 저녁 시작 맞춰 · 노을)</a></li>
+<li><a href="https://www.google.com/maps/search/?api=1&amp;query=Haleiwa+Beach+House" target="_blank" rel="noopener">Haleiwa Beach House — 저녁 대안 (400m, 워크인)</a></li>
 <li><a href="https://www.google.com/maps/search/?api=1&amp;query=Island+Vintage+Coffee+Haleiwa" target="_blank" rel="noopener">Island Vintage Coffee 할레이바 — 아사이볼 대안</a></li>
 <li><a href="https://www.google.com/maps/search/?api=1&amp;query=Aoki%27s+Shave+Ice+Haleiwa" target="_blank" rel="noopener">Aoki's 셰이브아이스 — 마츠모토 줄이 길면</a></li>
 <li><a href="https://www.google.com/maps/search/?api=1&amp;query=Big+Wave+Shrimp+Truck+Haleiwa" target="_blank" rel="noopener">Big Wave Shrimp — 점심 대안 (갈릭 쉬림프 독자 1위)</a></li>
 <li><a href="https://www.google.com/maps/search/?api=1&amp;query=Young%27s+Lunch+Wagon+Korean+BBQ+66-521+Kamehameha+Hwy+Haleiwa" target="_blank" rel="noopener">Young's 한식 트럭 (가이드북 '로라 이모네' 추정) — 점심 대안</a></li>
-<li><a href="https://www.google.com/maps/search/?api=1&amp;query=Sunset+Beach+Park+Oahu" target="_blank" rel="noopener">선셋비치 — 일몰 대안 (와이메아 주차 안 되면)</a></li>
+<li><a href="https://www.google.com/maps/search/?api=1&amp;query=Sunset+Beach+Park+Oahu" target="_blank" rel="noopener">선셋비치 — Ted's 옆 (선택)</a></li>
 <li><a href="https://www.google.com/maps/search/?api=1&amp;query=Ehukai+Beach+Park" target="_blank" rel="noopener">에후카이 비치파크 (파이프라인) — 대안</a></li>
 <li><a href="https://www.google.com/maps/search/?api=1&amp;query=Shark%27s+Cove+Oahu" target="_blank" rel="noopener">샤크스 코브 — 대안 (겨울 입수 금지)</a></li>
 <li><a href="https://www.google.com/maps/search/?api=1&amp;query=Marugame+Udon+Waikiki" target="_blank" rel="noopener">마루가메 우동 — 저녁 대안</a></li>
@@ -1697,7 +1698,7 @@ footer { max-width: 1100px; margin: 0 auto; padding: 0 16px 48px; color: var(--m
 </tr>
 <tr>
 <td data-label="우리 날짜"><span class="v">11/8 일</span></td>
-<td data-label="우리 동선"><span class="v">돌 → 할레이바 → 라니아케아 → 와이메아 밸리 → Ted's → 와이메아 베이 일몰</span></td>
+<td data-label="우리 동선"><span class="v">돌 → 할레이바 → 라니아케아 → 와이메아 밸리 → Ted's → 할레이바 저녁 (노을)</span></td>
 <td data-label="가이드북에서 같은 조합"><span class="v">기본 DAY03 (레인보우 드라이브인 → 돌 → 할레이바 → 라니아케아 → 로미스 → 와이켈레 → 루스 크리스)</span></td>
 <td data-label="체크 결과"><span class="v">✅ 같은 순서 · 와이켈레는 11/5에 이미 · 레인보우 드라이브인은 공식 매일 07–21이지만 임시휴업 공지도 있어 전화 확인 · Seven Brothers 일요일 휴무</span></td>
 </tr>
@@ -2122,8 +2123,7 @@ footer { max-width: 1100px; margin: 0 auto; padding: 0 16px 48px; color: var(--m
 · 🍳 Duke's 조식 뷔페 → 🍍 돌 플랜테이션
 · 🛍 할레이바 + 🍧 마츠모토 빙수 → 🍤 Giovanni's 새우
 · 🐢 라니아케아 거북이 → 🥾 와이메아 밸리 폭포
-· 🥧 Ted's 파이 → 🌅 와이메아 베이 일몰
-· 🍽 Haleiwa Beach House
+· 🥧 Ted's 파이 → 🌅 Haleiwa Joe's 노을 저녁 (16:30 도착)
 
 11/9(월) 🏝 서쪽 해안 드라이브 + 쇼핑
 · 🍳 Café Kaila → 🚗 93번 서쪽 해안 (코올리나 라군 → 마카하 → 요코하마 베이)
@@ -2197,7 +2197,7 @@ footer { max-width: 1100px; margin: 0 auto; padding: 0 16px 48px; color: var(--m
 ☐ 위탁 수하물 23kg 초과 주의 — 귀국 때 아울렛 쇼핑 짐도
 ☐ 액체류 100ml 이하·투명 지퍼백 (총 1L) · 보조배터리는 기내 가방에</pre></div></section>
 </main>
-<footer>업데이트 2026-11-03 21:25 KST · 영업시간·주차는 2026-11-02 웹 조사 + Codex 검수 기준입니다. (미확인) 항목은 방문 전날 구글맵·전화로 다시 확인하세요. 체크 표시는 이 기기에만 저장됩니다. 사진: Wikimedia Commons 자유 이용 사진 — 사진을 누르면 저작자·라이선스 원문으로 이동합니다.</footer>
+<footer>업데이트 2026-11-03 21:45 KST · 영업시간·주차는 2026-11-02 웹 조사 + Codex 검수 기준입니다. (미확인) 항목은 방문 전날 구글맵·전화로 다시 확인하세요. 체크 표시는 이 기기에만 저장됩니다. 사진: Wikimedia Commons 자유 이용 사진 — 사진을 누르면 저작자·라이선스 원문으로 이동합니다.</footer>
 <button class="top-btn" id="topBtn" aria-label="맨 위로">↑</button>
 <script>
 (function () {
